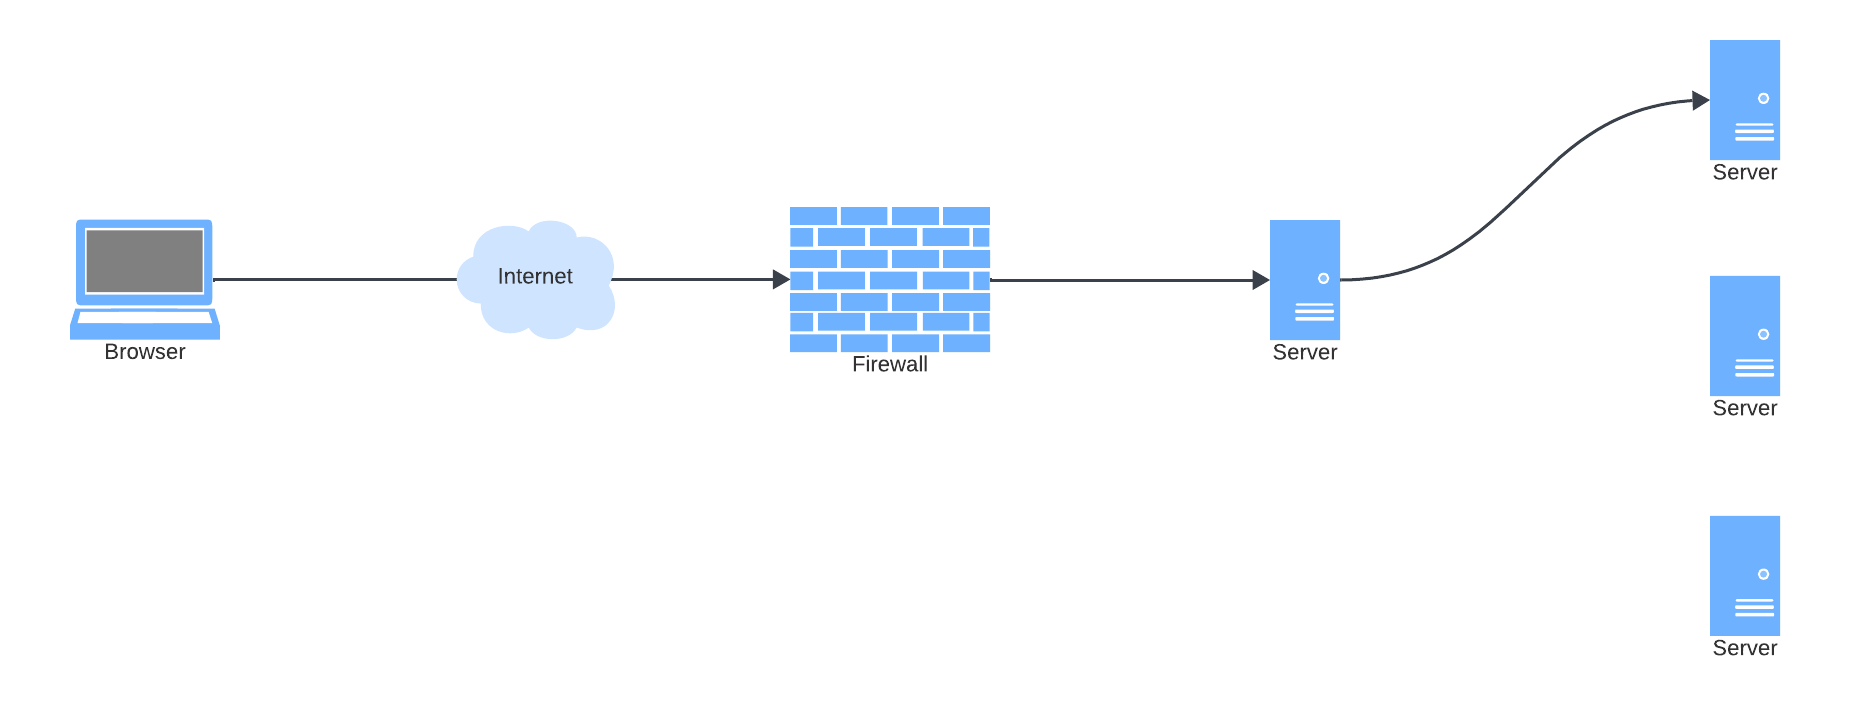
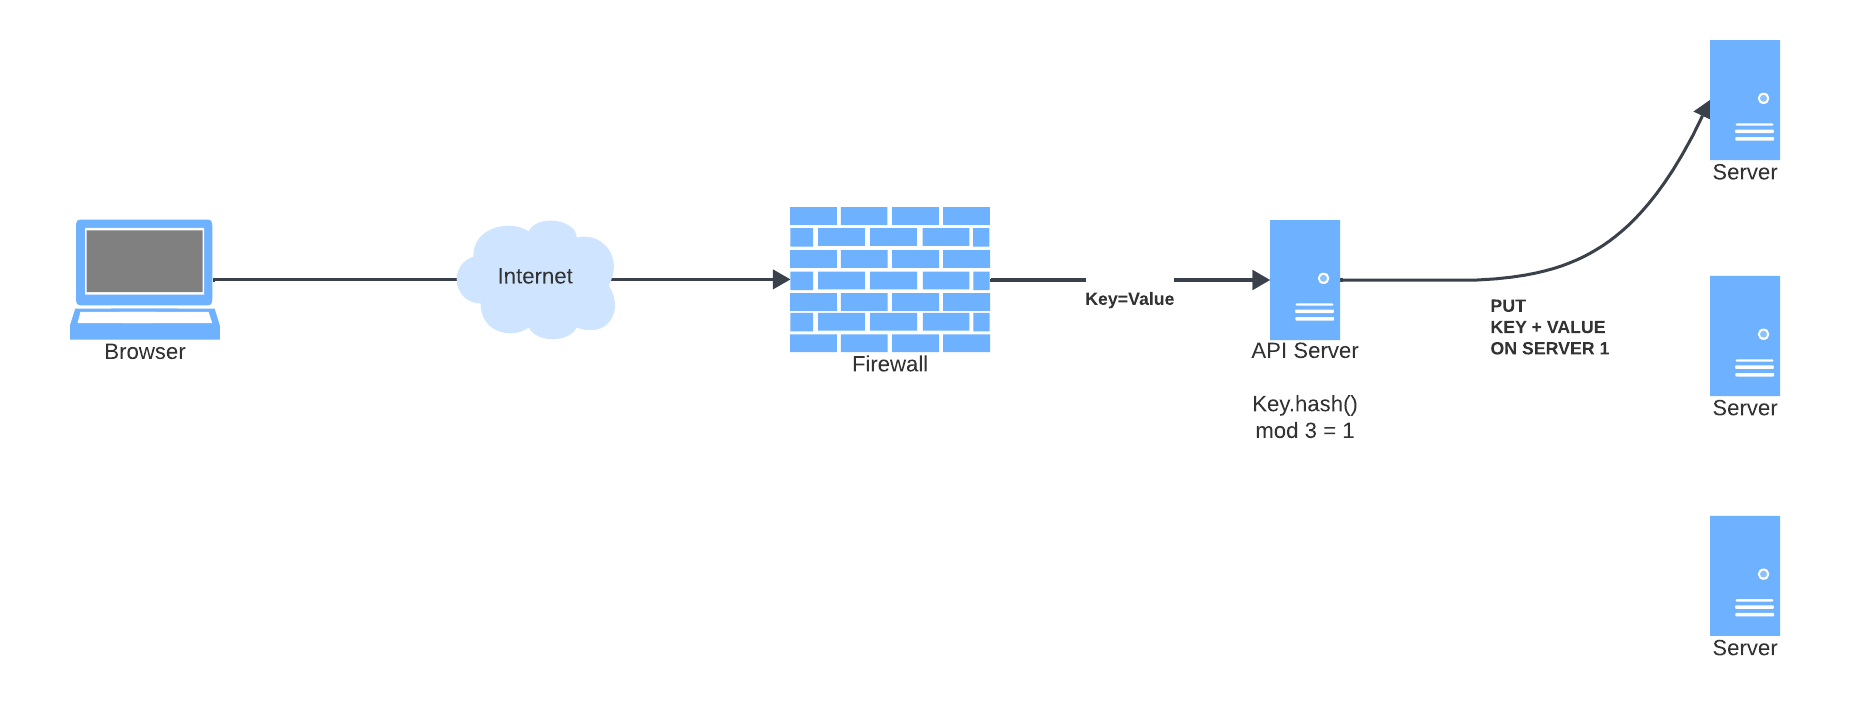
Consistent hashing

diff --git a/_posts/2025-1-21-Consistent-Hashing.md b/_posts/2025-1-21-Consistent-Hashing.md
@@ -15,9 +15,19 @@ Using the same logic, you could now retrieve the key "hello" from server 2, agai
 
 <div style="text-align: center; margin: 20px 0;">
   <img src="{{ site.baseurl }}/images/consistent-hashing/traditional_hashing.png" alt="traditional-hashing">
+  <p><em>Figure 1. Traditional hashing</em></p>
 </div>
-
 
 Now this is all good and works well, but what happens when you add a new server?
 
+## The Problem with Traditional Hashing
 
+When a new server is added or an existing server is removed, the hash of the keys will change. This means that the key "hello" will now be stored on a different server according to the hash function. 
+
+Thus when the client makes the request to retrieve the key "hello", the modulus operation could now return a different server index. This means that the client will now need to make a request to a different server to retrieve the key "hello".
+
+To rectify this, we now have to go through the entire key space across all servers and move the keys to their correct server after recomputing the hash function on each key. This is a very expensive operation and is not scalable when we are talking about billions of keys and a large number of servers.
+
+This is where Consistent Hashing comes in. Consistent Hashing is a technique that allows us to distribute data across a cluster of servers in a way that minimizes the number of keys that need to be moved when a server is added or removed from the cluster.
+
+Thus for distributed data systems that store billions of K-V pairs, consistent hashing is a more elegant solution.
